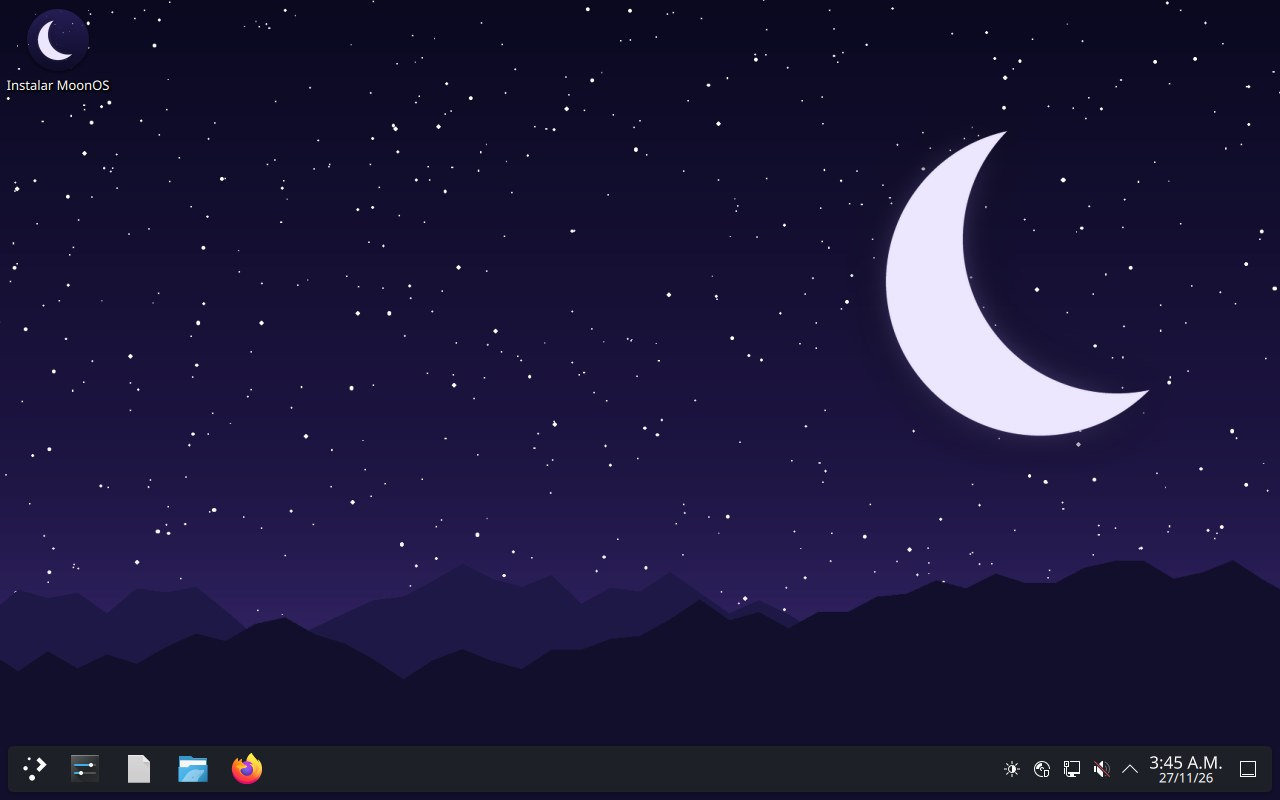
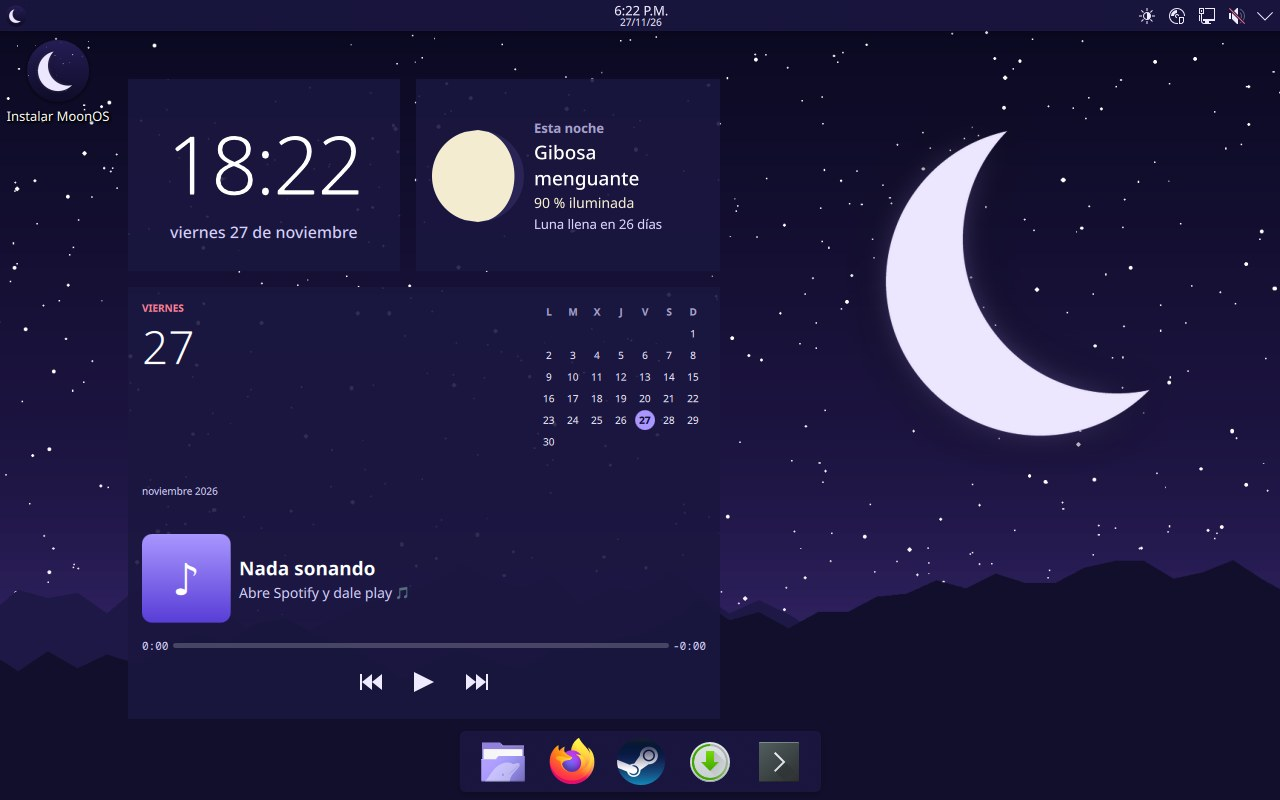
Página: captura real nueva con la barra superior, el dock y los widgets [skip ci]
Claude-Session: https://claude.ai/code/session_0178LhHUB1h3LWP7818FJhC6

diff --git a/moonos/index.html b/moonos/index.html
@@ -314,7 +314,7 @@ footer p { font-size: 0.85rem; color: var(--ink-faint); max-width: 60ch; }
       </div>
       <div class="screen-stage">
         <div class="screen" id="screen">
-          <img src="web/escritorio-real.jpg" alt="Captura real del escritorio de MoonOS: KDE Plasma con el fondo de luna, el acceso «Instalar MoonOS» y la barra de tareas" width="1280" height="800">
+          <img src="web/escritorio-real.jpg" alt="Captura real del escritorio de MoonOS: barra superior con menú, reloj y bandeja; widgets de vidrio con reloj, fase lunar, calendario y música; y el dock de apps abajo sobre el fondo de luna" width="1280" height="800">
         </div>
         <p class="screen-caption" id="screen-caption">Captura real de MoonOS · escritorio usando 1,1 GB de RAM</p>
       </div>
